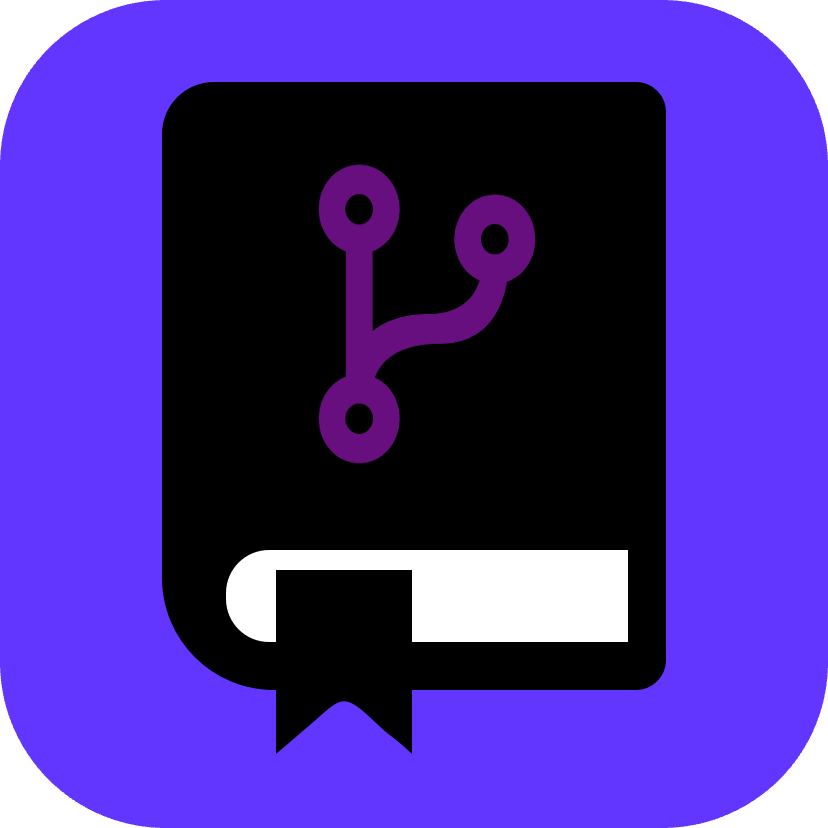
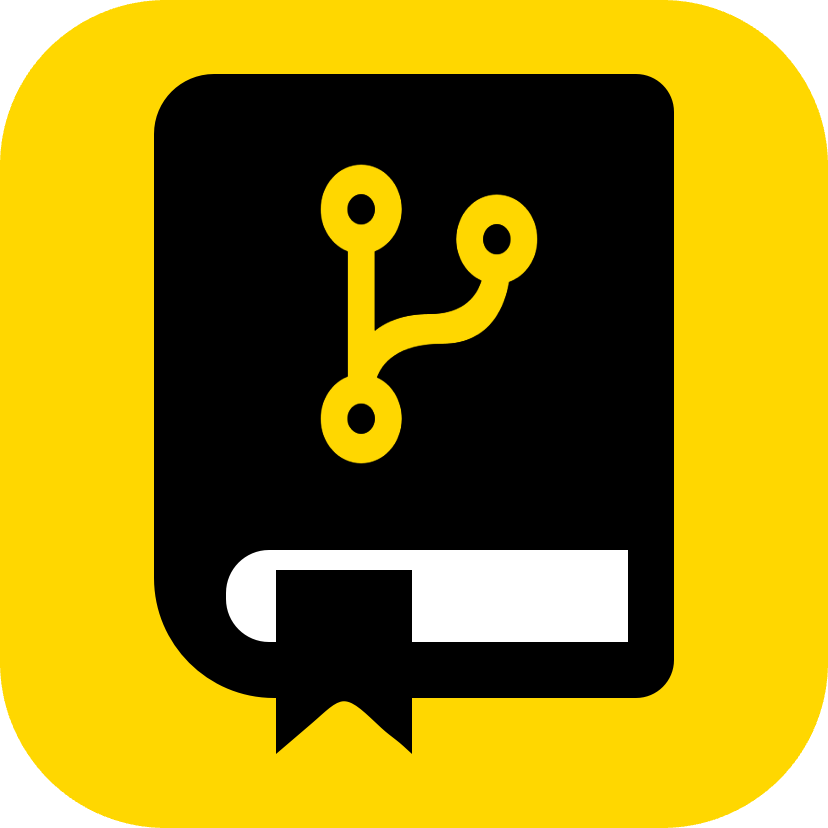
Update README and documents

diff --git a/README.md b/README.md
@@ -2,7 +2,7 @@
 
 <div align="center">
     <a href="https://github.com/scottgriv/Dark-Castle-Theme" target="_blank">
-        <img src="./docs/images/banner_large-gold.png" /> <!-- Add a specific width/height for your icon here, ex. width="150" height="150"-->
+        <img src="./docs/images/banner_large.png" /> <!-- Add a specific width/height for your icon here, ex. width="150" height="150"-->
     </a>
 </div>
 <br>
@@ -16,19 +16,22 @@
 
 ---------------
 
-<h1 align="center">🏰 Dark Castle Theme 🌲</img></h1>
+<h1 align="center">🏰 Dark Castle Theme 🌲</h1>
+<h3 align="center">One theme to rule them all...</h3>
 
 **Dark Castle** is a sophisticated and elegant dark theme available for multiple platforms. Inspired by the timeless beauty and mystery of medieval castles, this theme combines rich, deep colors with a clean and modern design. It's perfect for developers who prefer a dark environment that reduces eye strain and enhances code readability.
 
+![Screenshot](./docs/images/screenshot.png)
 
 Currently, **Dark Castle** is supported for the following platforms (IDEs, Text Editiors, Terminals, etc.):
-1. [VSCode](themes/vscode/)
+1. [Visual Studio Code](themes/vscode/)
+4. [Notepad++](themes/notepad-plus-plus/)
 2. [Xcode](themes/xcode/)
 3. [Obsidian](themes/obsidian/)
-4. [Notepad++](themes/notepad-plus-plus/)
 5. [BBEdit](themes/bbedit/)
 6. [Warp](themes/warp/)
-6. [Sketch](themes/sketch/)
+7. [Sketch](themes/sketch/)
+8. [Wallpaper](themes/wallpaper/)
 
 ---------------
 
@@ -58,7 +61,7 @@ Whether you're coding late into the night or simply prefer a dark interface, **D
 
 ## Background Story
 
-Back in 2013, I began to grow tired of the simple dark color themes provided out of the box with my [IDE](https://en.wikipedia.org/wiki/Integrated_development_environment) or [Text Editor](https://en.wikipedia.org/wiki/Text_editor) at the time. I decided to take a crack at building my own theme. The first platform I built it on was [Text Wrangler](https://www.barebones.com/products/textwrangler/), now migrated to [BBEdit](https://www.barebones.com/products/bbedit/index.html), and that original theme can be found [here](https://github.com/scottgriv/Dark-Castle-BBEdit). 
+Back in 2013, I ([Scott G.](https://github.com/scottgriv)) began to grow tired of the simple dark color themes provided out of the box with my [IDE](https://en.wikipedia.org/wiki/Integrated_development_environment) or [Text Editor](https://en.wikipedia.org/wiki/Text_editor) at the time. I decided to take a crack at building my own theme. The first platform I built it on was [Text Wrangler](https://www.barebones.com/products/textwrangler/), now migrated to [BBEdit](https://www.barebones.com/products/bbedit/index.html), and that original theme can be found [here](https://github.com/scottgriv/Dark-Castle-BBEdit). 
 
 I was inspired to make this theme by a number of things, including video games like [Dwarf Fortress](https://en.wikipedia.org/wiki/Dwarf_Fortress), [Minecraft](https://en.wikipedia.org/wiki/Minecraft), and [Warcraft 3](https://en.wikipedia.org/wiki/Warcraft_III:_Reign_of_Chaos). Books and movies such as [The Lord of the Rings](https://en.wikipedia.org/wiki/The_Lord_of_the_Rings), [The Hobbit](https://en.wikipedia.org/wiki/The_Hobbit), [Vikings](https://en.wikipedia.org/wiki/Vikings_(TV_series)), and [Game of Thrones](https://en.wikipedia.org/wiki/Game_of_Thrones), also influenced its design. Additionally, historical events and archaeological discoveries played a significant part in shaping the theme. In particular, the rich history and majestic architecture of Scottish castles like [Edinburgh Castle](https://en.wikipedia.org/wiki/Edinburgh_Castle) fueled my imagination and contributed to the overall aesthetic of the theme. 
 
@@ -131,23 +134,32 @@ The above colors are also included in this palette, along with a number of other
 
 ###### "Are you going to support editor X?"
 
-Hopefully!, but I need your help to accomplish that. Since you're already using app X you're probably much more experienced in it than I am. So give it a try first!
+Hopefully!, but we need your help to accomplish that. Since you're already using app X you're probably much more experienced in it than we are. So give it a try first!
 
 ###### "How do I submit a new theme?"
 
-If you would like to contribute and port over **Dark Castle** to a missing platform:
+If you would like to contribute to an existing theme and/or port over **Dark Castle** to a missing platform:
 1. Create a new repository based on this [Template](https://github.com/scottgriv/Dark-Castle-Template).
 2. Build the new theme using the [Color Palette](#color-palette) above.
-3. Use the provided code samples located in the [samples](https://github.com/scottgriv/Dark-Castle-Template/tree/main/samples) folder to develop and test the theme, then delete it when you're finished with it.
-4. Follow the [Contributing](#contributing) guidelines.
-5. Finally, [Submit an Issue (Feature Request)](https://github.com/scottgriv/Dark-Castle-Theme/issues/new?assignees=&labels=&projects=&template=feature_request.md&title=) with a link to your repository. Once the theme is accepted, I will move the repository under the **Dark Castle** main repository.
+3. Use the provided code samples located in the [Samples](https://github.com/scottgriv/Dark-Castle-Template/tree/main/samples) folder to develop and test the theme, then delete it when you're finished with it.
+4. Follow the [Contributing Guidelines](#contributing).
+5. Finally, [Submit an Issue (Feature Request)](https://github.com/scottgriv/Dark-Castle-Theme/issues/new?assignees=&labels=&projects=&template=feature_request.md&title=) with a link to your repository. Once the theme is accepted, we will move the repository under the **Dark Castle** main repository and give you rights to maintain it 😀.
 
 > [!NOTE]
-> In the future, if the project grows, I may move the theme repos to its own organization and give contributors the rights to maintain their submissions (similar to Dracula's structure).
+> In the future, if the project grows, we may move the theme repos to its own organization and give contributors the rights to maintain their submissions (similar to Dracula's structure).
+
+## Team
+
+**Dark Castle** is a project created by [Scott Griv](https://github.com/scottgriv/) with the help of [Anya E.](https://github.com/anyaenko/).
+- Each theme has its maintainer listed in the Team section of its `README`.
+
+| [![Scott Griv](https://github.com/scottgriv.png?size=100)](https://github.com/scottgriv) | [![Anya E.](https://github.com/anyaenko.png?size=100)](https://github.com/anyaenko) |
+| ---------------------------------------------------------------------------------------- | --------------------------------------------------------------------------------------------- |
+| [Scott Griv](https://github.com/scottgriv)                                               | [Anya E.](https://github.com/anyaenko)       
 
 ## Project
 
-Please reference the [GitHub Project](https://github.com/users/scottgriv/projects/14) tab inside this repository to get a good understanding of where I'm currently at with the overall project.
+Please reference the [GitHub Project](https://github.com/users/scottgriv/projects/14) tab inside this repository to get a good understanding of where we're currently at with the overall project.
 - Issues and Enhancements will also be tracked there as well.
 
 ## Discussions
@@ -157,15 +169,15 @@ Please join the [GitHub Discussions](https://github.com/scottgriv/Dark-Castle-Th
 
 ## Contributing
 
-Please reference the [CONTRIBUTING](.github/CONTRIBUTING.md) file in this repository for more details.
+Please reference the [Contributing Guidelines](.github/CONTRIBUTING.md) file in this repository for more details.
 
 ## Changelog
 
-The [CHANGELOG](.github/CHANGELOG.md) is available on the release page in each theme's repository, as well as the overall Changelog located [here](.github/CHANGELOG.md)
+The [Changelog](.github/CHANGELOG.md) is available on the release page in each theme's repository, as well as the overall Changelog located [here](.github/CHANGELOG.md)
 
 ## Resources
 
-Below are some external resources I found helpful when creating **Dark Castle**:
+Below are some external resources we found helpful when creating **Dark Castle**:
 
 - [Dracula Theme](https://draculatheme.com/)
 - [Color Wheel Picker](https://rgbacolorpicker.com/color-wheel-picker)
@@ -177,11 +189,11 @@ Below are some external resources I found helpful when creating **Dark Castle**:
 
 This project is released under the terms of the **MIT License**, which permits use, modification, and distribution of the code, subject to the conditions outlined in the license.
 - The [MIT License](https://choosealicense.com/licenses/mit/) provides certain freedoms while preserving rights of attribution to the original creators.
-- For more details and to understand all requirements and conditions, see the [LICENSE](LICENSE) file in this repository.
+- For more details and to understand all requirements and conditions, see the [License](LICENSE) file in this repository.
 
 ## Credits
 
-- [Dracula Theme](https://draculatheme.com/): for providing their open source theme, templates, install instructions, and overall theme structure. I owe a lot to the Dracula Team for making an awesome open source theme that inspired me to make my own.
+- [Dracula Theme](https://draculatheme.com/): for providing their open source theme, templates, install instructions, and overall theme structure. We owe a lot to the Dracula Team for making an awesome open source theme that inspired me to make my own.
 
 **Author:** [Scott Grivner](https://github.com/scottgriv) <br>
 **Email:** [scott.grivner@gmail.com](mailto:scott.grivner@gmail.com) <br>
@@ -192,7 +204,7 @@ This project is released under the terms of the **MIT License**, which permits u
 
 <div align="center">
     <a href="https://github.com/scottgriv/Dark-Castle-Theme" target="_blank">
-        <img src="./docs/images/icon-gold-rounded.png" width="100" height="100"/>
+        <img src="./docs/images/icon-rounded.png" width="100" height="100"/>
     </a>
 </div>
 

diff --git a/.github/CONTRIBUTING.md b/.github/CONTRIBUTING.md
@@ -1,5 +1,5 @@
 <!-- omit in toc -->
-# Contributing to Dark-Castle-Theme
+# Contributing to Dark Castle Theme
 
 First off, thanks for taking the time to contribute! ❤
 
@@ -29,7 +29,7 @@ All types of contributions are encouraged and valued. See the [Table of Contents
 ## Code of Conduct
 
 This project and everyone participating in it is governed by the
-[Dark-Castle-Theme Code of Conduct](CODE_OF_CONDUCT.md).
+[Dark Castle Theme Code of Conduct](CODE_OF_CONDUCT.md).
 By participating, you are expected to uphold this code. Please report unacceptable behavior
 to <scott.grivner@gmail.com>.
 
@@ -110,7 +110,7 @@ Once it's filed:
 
 ### Suggesting Enhancements
 
-This section guides you through submitting an enhancement suggestion for Dark-Castle-Theme, **including completely new features and minor improvements to existing functionality**. Following these guidelines will help maintainers and the community to understand your suggestion and find related suggestions.
+This section guides you through submitting an enhancement suggestion for Dark Castle Theme, **including completely new features and minor improvements to existing functionality**. Following these guidelines will help maintainers and the community to understand your suggestion and find related suggestions.
 
 <!-- omit in toc -->
 #### Before Submitting an Enhancement
@@ -129,7 +129,7 @@ Enhancement suggestions are tracked as [GitHub issues](https://github.com/scottg
 - Provide a **step-by-step description of the suggested enhancement** in as many details as possible.
 - **Describe the current behavior** and **explain which behavior you expected to see instead** and why. At this point you can also tell which alternatives do not work for you.
 - You may want to **include screenshots and animated GIFs** which help you demonstrate the steps or point out the part which the suggestion is related to. You can use [this tool](https://www.cockos.com/licecap/) to record GIFs on macOS and Windows, and [this tool](https://github.com/colinkeenan/silentcast) or [this tool](https://github.com/GNOME/byzanz) on Linux. <!-- this should only be included if the project has a GUI -->
-- **Explain why this enhancement would be useful** to most Dark-Castle-Theme users. You may also want to point out the other projects that solved it better and which could serve as inspiration.
+- **Explain why this enhancement would be useful** to most Dark Castle Theme users. You may also want to point out the other projects that solved it better and which could serve as inspiration.
 
 <!-- You might want to create an issue template for enhancement suggestions that can be used as a guide and that defines the structure of the information to be included. If you do so, reference it here in the description. -->
 

diff --git a/.github/CODE_OF_CONDUCT.md b/.github/CODE_OF_CONDUCT.md
@@ -1,4 +1,4 @@
-# Code of Conduct - Dark-Castle-Theme
+# Code of Conduct - Dark Castle Theme
 
 ## Our Pledge
 
